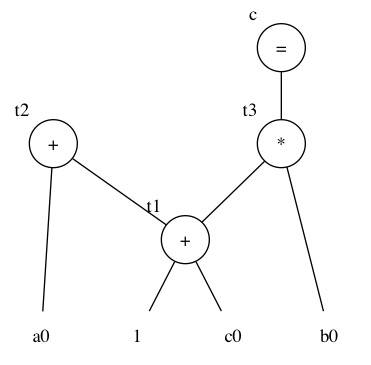
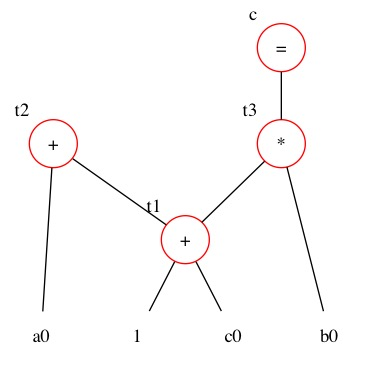
Node rouge printed

diff --git a/TP5/PrintExpressionDAGVisitor.java b/TP5/PrintExpressionDAGVisitor.java
@@ -90,7 +90,7 @@ public class PrintExpressionDAGVisitor implements ParserVisitor
         //System.out.println(i);
       }
       else {
-        m_writer.println("  " + i.get(4) + " [label=\"" + i.get(1) + "\", xlabel=\"" + i.get(0) + "\", shape=\"circle\"]");
+        m_writer.println("  " + i.get(4) + " [label=\"" + i.get(1) + "\", xlabel=\"" + i.get(0) + "\", shape=\"circle\"" + ", color=\"red\"]");
       }
       indexLoop++;
     }

diff --git a/TP5/gen/PrintExpressionDAGVisitor.java b/TP5/gen/PrintExpressionDAGVisitor.java
@@ -90,7 +90,7 @@ public class PrintExpressionDAGVisitor implements ParserVisitor
         //System.out.println(i);
       }
       else {
-        m_writer.println("  " + i.get(4) + " [label=\"" + i.get(1) + "\", xlabel=\"" + i.get(0) + "\", shape=\"circle\"]");
+        m_writer.println("  " + i.get(4) + " [label=\"" + i.get(1) + "\", xlabel=\"" + i.get(0) + "\", shape=\"circle\"" + ", color=\"red\"]");
       }
       indexLoop++;
     }
